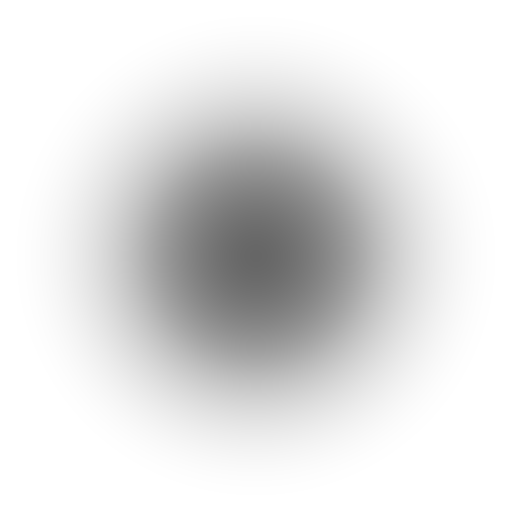
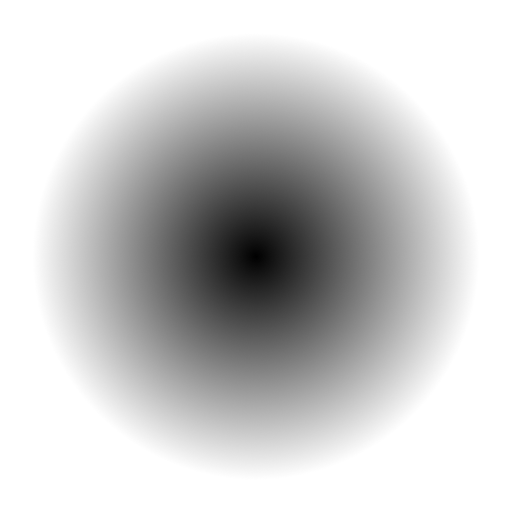
brush

diff --git a/src/main/java/com/heavybox/jtix/z/MapLayer_0.java b/src/main/java/com/heavybox/jtix/z/MapLayer_0.java
@@ -1,14 +1,19 @@
 package com.heavybox.jtix.z;
 
 import com.heavybox.jtix.assets.Assets;
-import com.heavybox.jtix.graphics.FrameBuffer;
-import com.heavybox.jtix.graphics.Renderer2D;
-import com.heavybox.jtix.graphics.Shader;
-import com.heavybox.jtix.graphics.Texture;
+import com.heavybox.jtix.collections.Array;
+import com.heavybox.jtix.graphics.*;
+import org.lwjgl.opengl.GL11;
+
+import static org.lwjgl.opengl.GL11.*;
+import static org.lwjgl.opengl.GL14.glBlendFuncSeparate;
 
 public class MapLayer_0 implements MapLayer {
 
     private FrameBuffer layer0 = new FrameBuffer(1920, 1080);;
+    private FrameBuffer terrainBlendMap = new FrameBuffer(1920, 1080); // <- draw roads here
+    private FrameBuffer terrainMask = new FrameBuffer(1920, 1080); // <- draw terrain here
+    public final Camera camera = new Camera(Camera.Mode.ORTHOGRAPHIC, 1920, 1080, 1, 0, 100, 75);
 
     private Texture terrainGrass;
     private Texture terrainWater;
@@ -20,6 +25,12 @@ public class MapLayer_0 implements MapLayer {
 
     private Shader terrainShader;
 
+    private Array<CommandTerrain> commandsHistory = new Array<>(true, 100);
+    private Array<CommandTerrain> commandsQueueTerrainMask = new Array<>(true, 100);
+    private Array<CommandTerrain> commandsQueueTerrainBlendMap = new Array<>(true, 100);
+
+    private boolean changed = false;
+
     public MapLayer_0() {
         terrainGrass = Assets.get("assets/textures-layer-0/terrain-grass_1920x1080.png");
         terrainWater = Assets.get("assets/textures-layer-0/terrain-water_1920x1080.png");
@@ -30,25 +41,49 @@ public class MapLayer_0 implements MapLayer {
         String terrainVertexShaderSrc = Assets.getFileContent("assets/shaders/terrain-mask.vert");
         String terrainFragmentShaderSrc = Assets.getFileContent("assets/shaders/terrain-mask.frag");
         this.terrainShader = new Shader(terrainVertexShaderSrc, terrainFragmentShaderSrc);
+
+        FrameBufferBinder.bind(terrainMask);
+        GL11.glClearColor(1,1,1,1);
+        GL11.glClear(GL11.GL_COLOR_BUFFER_BIT);
     }
 
     @Override
     public void executeCommand(Command command) {
-
+        if (!(command instanceof CommandTerrain)) return;
+        CommandTerrain cmd = (CommandTerrain) command;
+        if (cmd.mode == ToolTerrain.Mode.ADD_LAND || cmd.mode == ToolTerrain.Mode.SUB_LAND) commandsQueueTerrainMask.add(cmd);
+        if (cmd.mode == ToolTerrain.Mode.ADD_ROAD || cmd.mode == ToolTerrain.Mode.SUB_ROAD) commandsQueueTerrainBlendMap.add(cmd);
+        commandsHistory.add(cmd);
+        changed = true;
     }
 
     @Override
     public void redraw(Renderer2D renderer2D) {
+        // erase terrain mask
 
     }
 
     @Override
     public void applyChanges(Renderer2D renderer2D) {
+        if (!changed) return;
+        FrameBufferBinder.bind(terrainMask);
+        renderer2D.begin(camera);
+        renderer2D.setBlending(GL_SRC_ALPHA, GL_ONE_MINUS_SRC_ALPHA, GL_ONE, GL_ONE_MINUS_SRC_ALPHA);
+        for (CommandTerrain cmd : commandsQueueTerrainMask) {
+            Texture texture = cmd.mode == ToolTerrain.Mode.ADD_LAND ? terrainBrushAdd : terrainBrushSub;
+            renderer2D.drawTexture(texture, cmd.x, cmd.y, 0, cmd.sclX, cmd.sclY);
+            //renderer2D.setColor(1,0,0,0.5f);
+            //renderer2D.drawRectangleFilled(200,200,cmd.x, cmd.y, 0, 1,1);
+        }
+        renderer2D.end();
 
+        commandsQueueTerrainMask.clear();
+        commandsQueueTerrainBlendMap.clear();
+        changed = false;
     }
 
     @Override
     public Texture getTexture() {
-        return null;
+        return terrainMask.getColorAttachment0(); // for now.
     }
 }

diff --git a/src/main/java/com/heavybox/jtix/z/Map.java b/src/main/java/com/heavybox/jtix/z/Map.java
@@ -12,15 +12,16 @@ public class Map {
     private String terrainVertexShaderSrc = Assets.getFileContent("assets/shaders/terrain-mask.vert");
     private String terrainFragmentShaderSrc = Assets.getFileContent("assets/shaders/terrain-mask.frag");
     private Shader terrainShader = new Shader(terrainVertexShaderSrc, terrainFragmentShaderSrc);
-    private FrameBuffer layer0TerrainMask = new FrameBuffer(1920, 1080);;
+    private FrameBuffer layer0TerrainMask = new FrameBuffer(1920, 1080);
     private FrameBuffer layer0TerrainBlendMap = new FrameBuffer(1920, 1080);
-    private FrameBuffer layer0 = new FrameBuffer(1920, 1080);
+    //private FrameBuffer layer0 = new FrameBuffer(1920, 1080);
     private Texture terrainGrass;
     private Texture terrainWater;
     private Texture terrainSteepness;
     private Texture terrainRoad;
 
     // Ground layer (wheat fields)
+    public MapLayer_0 layer0;
     public MapLayer_3 layer3;
 
     // Decorations layer
@@ -40,17 +41,18 @@ public class Map {
 
     public Map(boolean initEmpty) {
 
+        layer0 = new MapLayer_0();
         layer3 = new MapLayer_3();
 
-        if (initEmpty) {
-            FrameBufferBinder.bind(layer0TerrainMask);
-            GL11.glClearColor(0,0,0,0);
-            GL11.glClear(GL11.GL_COLOR_BUFFER_BIT | GL11.GL_DEPTH_BUFFER_BIT | GL11.GL_STENCIL_BUFFER_BIT); // should probably clear the stencil
-        } else {
-            FrameBufferBinder.bind(layer0TerrainMask);
-            GL11.glClearColor(1,1,1,1);
-            GL11.glClear(GL11.GL_COLOR_BUFFER_BIT | GL11.GL_DEPTH_BUFFER_BIT | GL11.GL_STENCIL_BUFFER_BIT); // should probably clear the stencil
-        }
+//        if (initEmpty) {
+//            FrameBufferBinder.bind(layer0TerrainMask);
+//            GL11.glClearColor(0,0,0,0);
+//            GL11.glClear(GL11.GL_COLOR_BUFFER_BIT | GL11.GL_DEPTH_BUFFER_BIT | GL11.GL_STENCIL_BUFFER_BIT); // should probably clear the stencil
+//        } else {
+//            FrameBufferBinder.bind(layer0TerrainMask);
+//            GL11.glClearColor(1,1,1,1);
+//            GL11.glClear(GL11.GL_COLOR_BUFFER_BIT | GL11.GL_DEPTH_BUFFER_BIT | GL11.GL_STENCIL_BUFFER_BIT); // should probably clear the stencil
+//        }
     }
 
     public void addCommand(Command command) {
@@ -69,6 +71,7 @@ public class Map {
     }
 
     private void executeCommand(Command command) {
+        if (command.layer == 0) layer0.executeCommand(command);
         if (command.layer == 3) layer3.executeCommand(command);
     }
 
@@ -81,14 +84,15 @@ public class Map {
     }
 
     public void render(Renderer2D renderer2D) {
-        layer3.redraw(renderer2D);
+        layer0.applyChanges(renderer2D);
+        layer3.redraw(renderer2D); // TODO: use applyChanges
 
         FrameBufferBinder.bind(mapFinal);
         GL11.glClearColor(1.0f,1.0f,1.0f,1);
         GL11.glClear(GL11.GL_COLOR_BUFFER_BIT | GL11.GL_DEPTH_BUFFER_BIT | GL11.GL_STENCIL_BUFFER_BIT); // should probably clear the stencil
         renderer2D.begin(camera);
         // render layer-0
-        renderer2D.drawTexture(layer0.getColorAttachment0(), 0, 0, 0, 1,1);
+        renderer2D.drawTexture(layer0.getTexture(), 0, 0, 0, 1,1);
         // render layer-1
         // render layer-2
         // render layer-3

diff --git a/src/main/java/com/heavybox/jtix/graphics/Renderer2D.java b/src/main/java/com/heavybox/jtix/graphics/Renderer2D.java
@@ -9,11 +9,9 @@ import com.heavybox.jtix.memory.MemoryResourceHolder;
 import org.jetbrains.annotations.NotNull;
 import org.jetbrains.annotations.Nullable;
 import org.lwjgl.BufferUtils;
-import org.lwjgl.opengl.GL11;
-import org.lwjgl.opengl.GL15;
-import org.lwjgl.opengl.GL20;
-import org.lwjgl.opengl.GL30;
+import org.lwjgl.opengl.*;
 import org.lwjgl.system.MemoryUtil;
+import org.lwjgl.system.NativeType;
 
 import java.io.BufferedReader;
 import java.io.IOException;
@@ -28,6 +26,9 @@ import java.util.Objects;
 import java.util.Stack;
 import java.util.function.Function;
 import java.util.stream.Collectors;
+
+import static org.lwjgl.opengl.GL11.*;
+import static org.lwjgl.opengl.GL11.GL_ONE_MINUS_SRC_ALPHA;
 
 // TODO: convert to a static class. Renderer2D.
 // TODO: in Graphics.cleanup(), call Renderer2D.delete()
@@ -61,8 +62,6 @@ public class Renderer2D implements MemoryResourceHolder {
     private boolean   drawing             = false;
     private int       vertexIndex         = 0;
     private int       currentMode         = GL11.GL_TRIANGLES;
-    private int       currentSFactor      = GL11.GL_SRC_ALPHA;
-    private int       currentDFactor      = GL11.GL_ONE_MINUS_SRC_ALPHA;
     private int       perFrameDrawCalls   = 0;
     private float     pixelScaleWidth     = 1;
     private float     pixelScaleWidthInv  = 1;
@@ -165,7 +164,7 @@ public class Renderer2D implements MemoryResourceHolder {
         maskingEnabled = false;
 
         /* set blend function to default blending */
-        GL11.glBlendFunc(GL11.GL_SRC_ALPHA, GL11.GL_ONE_MINUS_SRC_ALPHA);
+        //GL11.glBlendFunc(GL11.GL_SRC_ALPHA, GL11.GL_ONE_MINUS_SRC_ALPHA);
         this.perFrameDrawCalls = 0;
 
         // set camera
@@ -183,6 +182,7 @@ public class Renderer2D implements MemoryResourceHolder {
         currentCamera.update(); // TODO: probably remove. Redundant update()s
 
         setShader(defaultShader);
+        setBlending(GL11.GL_SRC_ALPHA, GL11.GL_ONE_MINUS_SRC_ALPHA); // TODO: test
         setShaderAttributes(null);
         setTexture(defaultTexture);
         setMode(GL11.GL_TRIANGLES);
@@ -234,10 +234,15 @@ public class Renderer2D implements MemoryResourceHolder {
     }
 
     public void setBlending(int sFactor, int dFactor) {
-        if (currentSFactor == sFactor && currentDFactor == dFactor) return;
         flush();
-        this.currentSFactor = sFactor;
-        this.currentDFactor = dFactor;
+        GL11.glEnable(GL11.GL_BLEND); //TODO
+        GL11.glBlendFunc(sFactor, dFactor);
+    }
+
+    public void setBlending(int sFactorRGB, int dFactorRGB, int sFactorAlpha, int dFactorAlpha) {
+        flush();
+        GL11.glEnable(GL11.GL_BLEND); //TODO
+        GL14.glBlendFuncSeparate(sFactorRGB, dFactorRGB, sFactorAlpha, dFactorAlpha);
     }
 
     public void setColor(final Color color) {
@@ -3181,7 +3186,7 @@ public class Renderer2D implements MemoryResourceHolder {
         return hasSpaceVertices && hasSpaceIndices;
     }
 
-    private void flush() {
+    public void flush() {
         if (vertexIndex == 0) return;
 
         GL30.glBindVertexArray(vao);

diff --git a/src/main/java/com/heavybox/jtix/z/ToolTerrain.java b/src/main/java/com/heavybox/jtix/z/ToolTerrain.java
@@ -1,23 +1,54 @@
 package com.heavybox.jtix.z;
 
+import com.heavybox.jtix.graphics.Color;
 import com.heavybox.jtix.graphics.Renderer2D;
+import com.heavybox.jtix.graphics.Texture;
+import com.heavybox.jtix.input.Input;
+import com.heavybox.jtix.input.Mouse;
 
 public class ToolTerrain extends Tool {
 
     public Mode mode = Mode.SUB_LAND;
 
+    public Texture brushAdd;
+    public Texture brushSub;
+
     public ToolTerrain(Map map) {
         super(map);
+        brushAdd = new Texture("assets/tools/terrain-brush-draw.png");
+        brushSub = new Texture("assets/tools/terrain-brush-erase.png");
     }
 
     @Override
     public void update(float delta) {
+        if (Input.mouse.isButtonJustPressed(Mouse.Button.LEFT)) {
+            CommandTerrain commandTerrain = new CommandTerrain(x, y, 0, sclX, sclY, false, mode);
+            map.addCommand(commandTerrain);
+        } else if (Input.mouse.isButtonPressed(Mouse.Button.LEFT) && (Input.mouse.getXDelta() != 0 || Input.mouse.getYDelta() != 0)) {
+            CommandTerrain commandTerrain = new CommandTerrain(x, y, 0, sclX, sclY, false, mode);
+            map.addCommand(commandTerrain);
+        } else if (Input.mouse.isButtonJustReleased(Mouse.Button.LEFT)) {
 
+        }
     }
 
     @Override
     public void renderToolOverlay(Renderer2D renderer2D, float x, float y) {
-        renderer2D.drawCircleThin(20,30, x, y, deg, sclX, sclY);
+        renderer2D.setColor(Color.WHITE);
+        if (mode == Mode.ADD_LAND || mode == Mode.ADD_ROAD) {
+            renderer2D.drawTexture(brushAdd, x, y, 0, 1, 1);
+        } else if (mode == Mode.SUB_LAND || mode == Mode.SUB_ROAD) {
+            //renderer2D.drawTexture(brushSub, x, y, 0, 1, 1);
+            renderer2D.setColor(1,0,0,0.5f);
+            renderer2D.drawRectangleFilled(200,200, x,  y, 0, 1,1);
+            renderer2D.drawRectangleFilled(200,200, x,  y, 0, 1,1);
+            renderer2D.drawRectangleFilled(200,200, x,  y, 0, 1,1);
+            renderer2D.drawRectangleFilled(200,200, x,  y, 0, 1,1);
+            renderer2D.drawRectangleFilled(200,200, x,  y, 0, 1,1);
+            renderer2D.drawRectangleFilled(200,200, x,  y, 0, 1,1);
+            renderer2D.drawRectangleFilled(200,200, x,  y, 0, 1,1);
+            renderer2D.drawRectangleFilled(200,200, x,  y, 0, 1,1);
+        }
     }
 
     @Override

diff --git a/src/main/java/com/heavybox/jtix/z/MapLayer_3.java b/src/main/java/com/heavybox/jtix/z/MapLayer_3.java
@@ -7,6 +7,9 @@ import org.lwjgl.opengl.GL11;
 
 import java.util.Comparator;
 
+import static org.lwjgl.opengl.GL11.*;
+import static org.lwjgl.opengl.GL11.GL_ONE_MINUS_SRC_ALPHA;
+
 public class MapLayer_3 implements MapLayer {
 
     // DEBUGGING
@@ -44,7 +47,7 @@ public class MapLayer_3 implements MapLayer {
         GL11.glClearColor(0,0,0,0);
         GL11.glClear(GL11.GL_COLOR_BUFFER_BIT);
         renderer2D.begin(camera);
-        //renderer2D.begin(camera);
+        renderer2D.setBlending(GL_SRC_ALPHA, GL_ONE_MINUS_SRC_ALPHA, GL_ONE, GL_ONE_MINUS_SRC_ALPHA);
         allTokens.sort(Comparator.comparingInt(o -> -(int) o.y));
         for (MapToken mapToken : allTokens) {
             mapToken.render(renderer2D);
@@ -54,7 +57,7 @@ public class MapLayer_3 implements MapLayer {
 
     @Override
     public void applyChanges(Renderer2D renderer2D) {
-
+        redraw(renderer2D);
     }
 
     @Override

diff --git a/src/main/java/com/heavybox/jtix/graphics/FrameBuffer.java b/src/main/java/com/heavybox/jtix/graphics/FrameBuffer.java
@@ -43,8 +43,6 @@ public class FrameBuffer implements MemoryResource {
         GL30.glFramebufferTexture2D(GL30.GL_FRAMEBUFFER, GL30.GL_COLOR_ATTACHMENT0, GL11.GL_TEXTURE_2D, colorAttachment0.getHandle(), 0);
         colorAttachment1 = null;
 
-
-
         depthStencilRBO = GL30.glGenRenderbuffers();
         GL30.glBindRenderbuffer(GL30.GL_RENDERBUFFER, depthStencilRBO);
         GL30.glRenderbufferStorage(GL30.GL_RENDERBUFFER, GL30.GL_DEPTH24_STENCIL8, width, height);

diff --git a/src/main/java/com/heavybox/jtix/z/MapLayer_5.java b/src/main/java/com/heavybox/jtix/z/MapLayer_5.java
@@ -1,0 +1,4 @@
+package com.heavybox.jtix.z;
+
+public class MapLayer_5 {
+}
